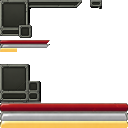
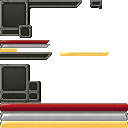
Frame the new XP bar like the HP bar, with a pointed tip and progress text
Claude-Session: https://claude.ai/code/session_01JDuagXZUm92QiRxDizBnyo

Changed region(s): [[0.0, 0.4062, 0.4062, 0.4688], [0.4688, 0.4062, 0.875, 0.4375]]

diff --git a/core/src/main/java/com/shatteredpixel/shatteredpixeldungeon/ui/StatusPane.java b/core/src/main/java/com/shatteredpixel/shatteredpixeldungeon/ui/StatusPane.java
@@ -38,7 +38,6 @@ import com.watabou.input.GameAction;
 import com.watabou.noosa.BitmapText;
 import com.watabou.noosa.Camera;
 import com.watabou.noosa.Game;
-import com.watabou.noosa.ColorBlock;
 import com.watabou.noosa.Image;
 import com.watabou.noosa.NinePatch;
 import com.watabou.noosa.particles.Emitter;
@@ -66,8 +65,9 @@ public class StatusPane extends Component {
 
 	private Image exp;
 	//MOD: extra XP bar under the health bar (phone layout)
-	private ColorBlock expTrack;
+	private NinePatch expFrame;
 	private Image expBar;
+	private BitmapText expBarText;
 	private BitmapText expText;
 
 	private int lastLvl = -1;
@@ -170,10 +170,15 @@ public class StatusPane extends Component {
 		add( exp );
 
 		if (!large) {
-			expTrack = new ColorBlock(1, 1, 0xFF1C1C18);
-			add(expTrack);
-			expBar = new Image(asset, 0, 48, 17, 4);
+			//frame cut from the HP bar's frame (same bevel and angled tip), gold fill shaped like the HP bar
+			expFrame = new NinePatch(asset, 0, 52, 52, 8, 2, 0, 5, 0);
+			add(expFrame);
+			expBar = new Image(asset, 60, 52, 50, 4);
 			add(expBar);
+			expBarText = new BitmapText(PixelScene.pixelFont);
+			expBarText.hardlight(0xFFFFAA);
+			expBarText.alpha(0.6f);
+			add(expBarText);
 		}
 
 		expText = new BitmapText(PixelScene.pixelFont);
@@ -269,11 +274,13 @@ public class StatusPane extends Component {
 			hp.x = shieldHP.x = Dot.x = hpleft;
 			hp.y = shieldHP.y = Dot.y = y + 2;
 
-			//MOD: thin XP bar directly under the health bar
-			expTrack.size(hp.width, 3);
-			expTrack.x = expBar.x = hp.x;
-			expTrack.y = expBar.y = hp.y + hp.height + 1;
-			expBar.scale.y = 3f / expBar.height;
+			//MOD: framed XP bar directly under the health bar, sharing its border
+			expFrame.size(hp.width + 2, expFrame.height);
+			expFrame.x = hp.x - 2;
+			expFrame.y = y + 7;
+			expBar.frame(60 + 50 - (int)hp.width, 52, (int)hp.width, 4);
+			expBar.x = hp.x;
+			expBar.y = expFrame.y + 2;
 
 			hpText.scale.set(PixelScene.align(0.5f));
 			hpText.x = hp.x + 1;
@@ -295,7 +302,7 @@ public class StatusPane extends Component {
 			if (buffBarRowAdjusts != null){
 				buffs.rowHeightAdjusts = buffBarRowAdjusts;
 			}
-			buffs.setRect( x + heroPaneWidth + 1, y + 11, 55, 16 ); //MOD: moved down for the XP bar
+			buffs.setRect( x + heroPaneWidth + 1, y + 16, 55, 16 ); //MOD: moved down for the XP bar
 
 			busy.x = x + 1;
 			busy.y = y + 37;
@@ -372,7 +379,12 @@ public class StatusPane extends Component {
 		} else {
 			exp.scale.x = ((17 + heroPaneExtraWidth) / exp.width) * Dungeon.hero.exp / Dungeon.hero.maxExp();
 			expText.text(Dungeon.hero.exp + "/" + Dungeon.hero.maxExp());
-			expBar.scale.x = (expTrack.width() / expBar.width) * Dungeon.hero.exp / Dungeon.hero.maxExp();
+			expBar.scale.x = (float)Dungeon.hero.exp / Dungeon.hero.maxExp();
+			expBarText.text(Dungeon.hero.exp + "/" + Dungeon.hero.maxExp());
+			expBarText.scale.set(PixelScene.align(0.5f));
+			expBarText.x = expBar.x + 1;
+			expBarText.y = expBar.y + (4 - (expBarText.baseLine() + expBarText.scale.y)) / 2f - 0.001f;
+			PixelScene.align(expBarText);
 		}
 
 		if (Dungeon.hero.lvl != lastLvl) {
@@ -420,8 +432,9 @@ public class StatusPane extends Component {
 		hp.alpha(value);
 		hpText.alpha(0.6f*value);
 		exp.alpha(value);
-		if (expTrack != null) expTrack.alpha(value);
+		if (expFrame != null) expFrame.alpha(value);
 		if (expBar != null) expBar.alpha(value);
+		if (expBarText != null) expBarText.alpha(0.6f*value);
 		if (expText != null) expText.alpha(0.6f*value);
 		level.alpha(value);
 		compass.alpha(value);
